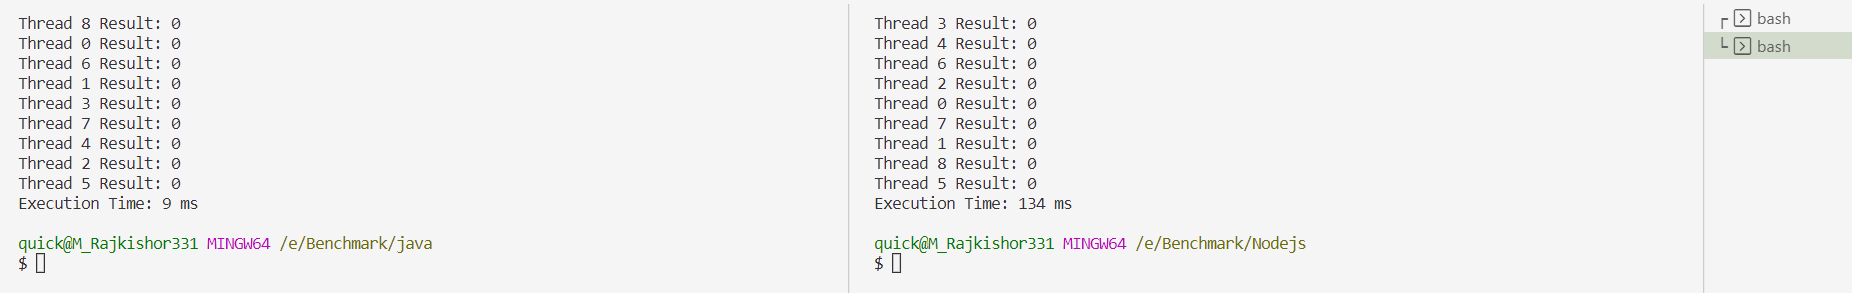
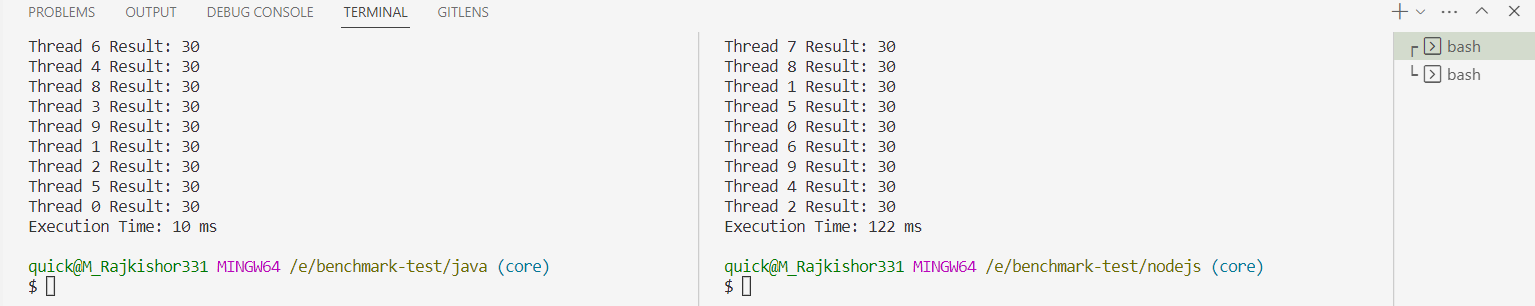
chore(img):screenshot update

diff --git a/Nodejs/main.js b/Nodejs/main.js
@@ -2,7 +2,7 @@ const { Worker } = require('worker_threads');
 
 function runMultiThreadBenchmark() {
     const numberOfThreads = 10;
-    const numberOfIterations = 5;
+    const numberOfIterations = 50;
 
     const startTime = Date.now();
     const workerPromises = [];
